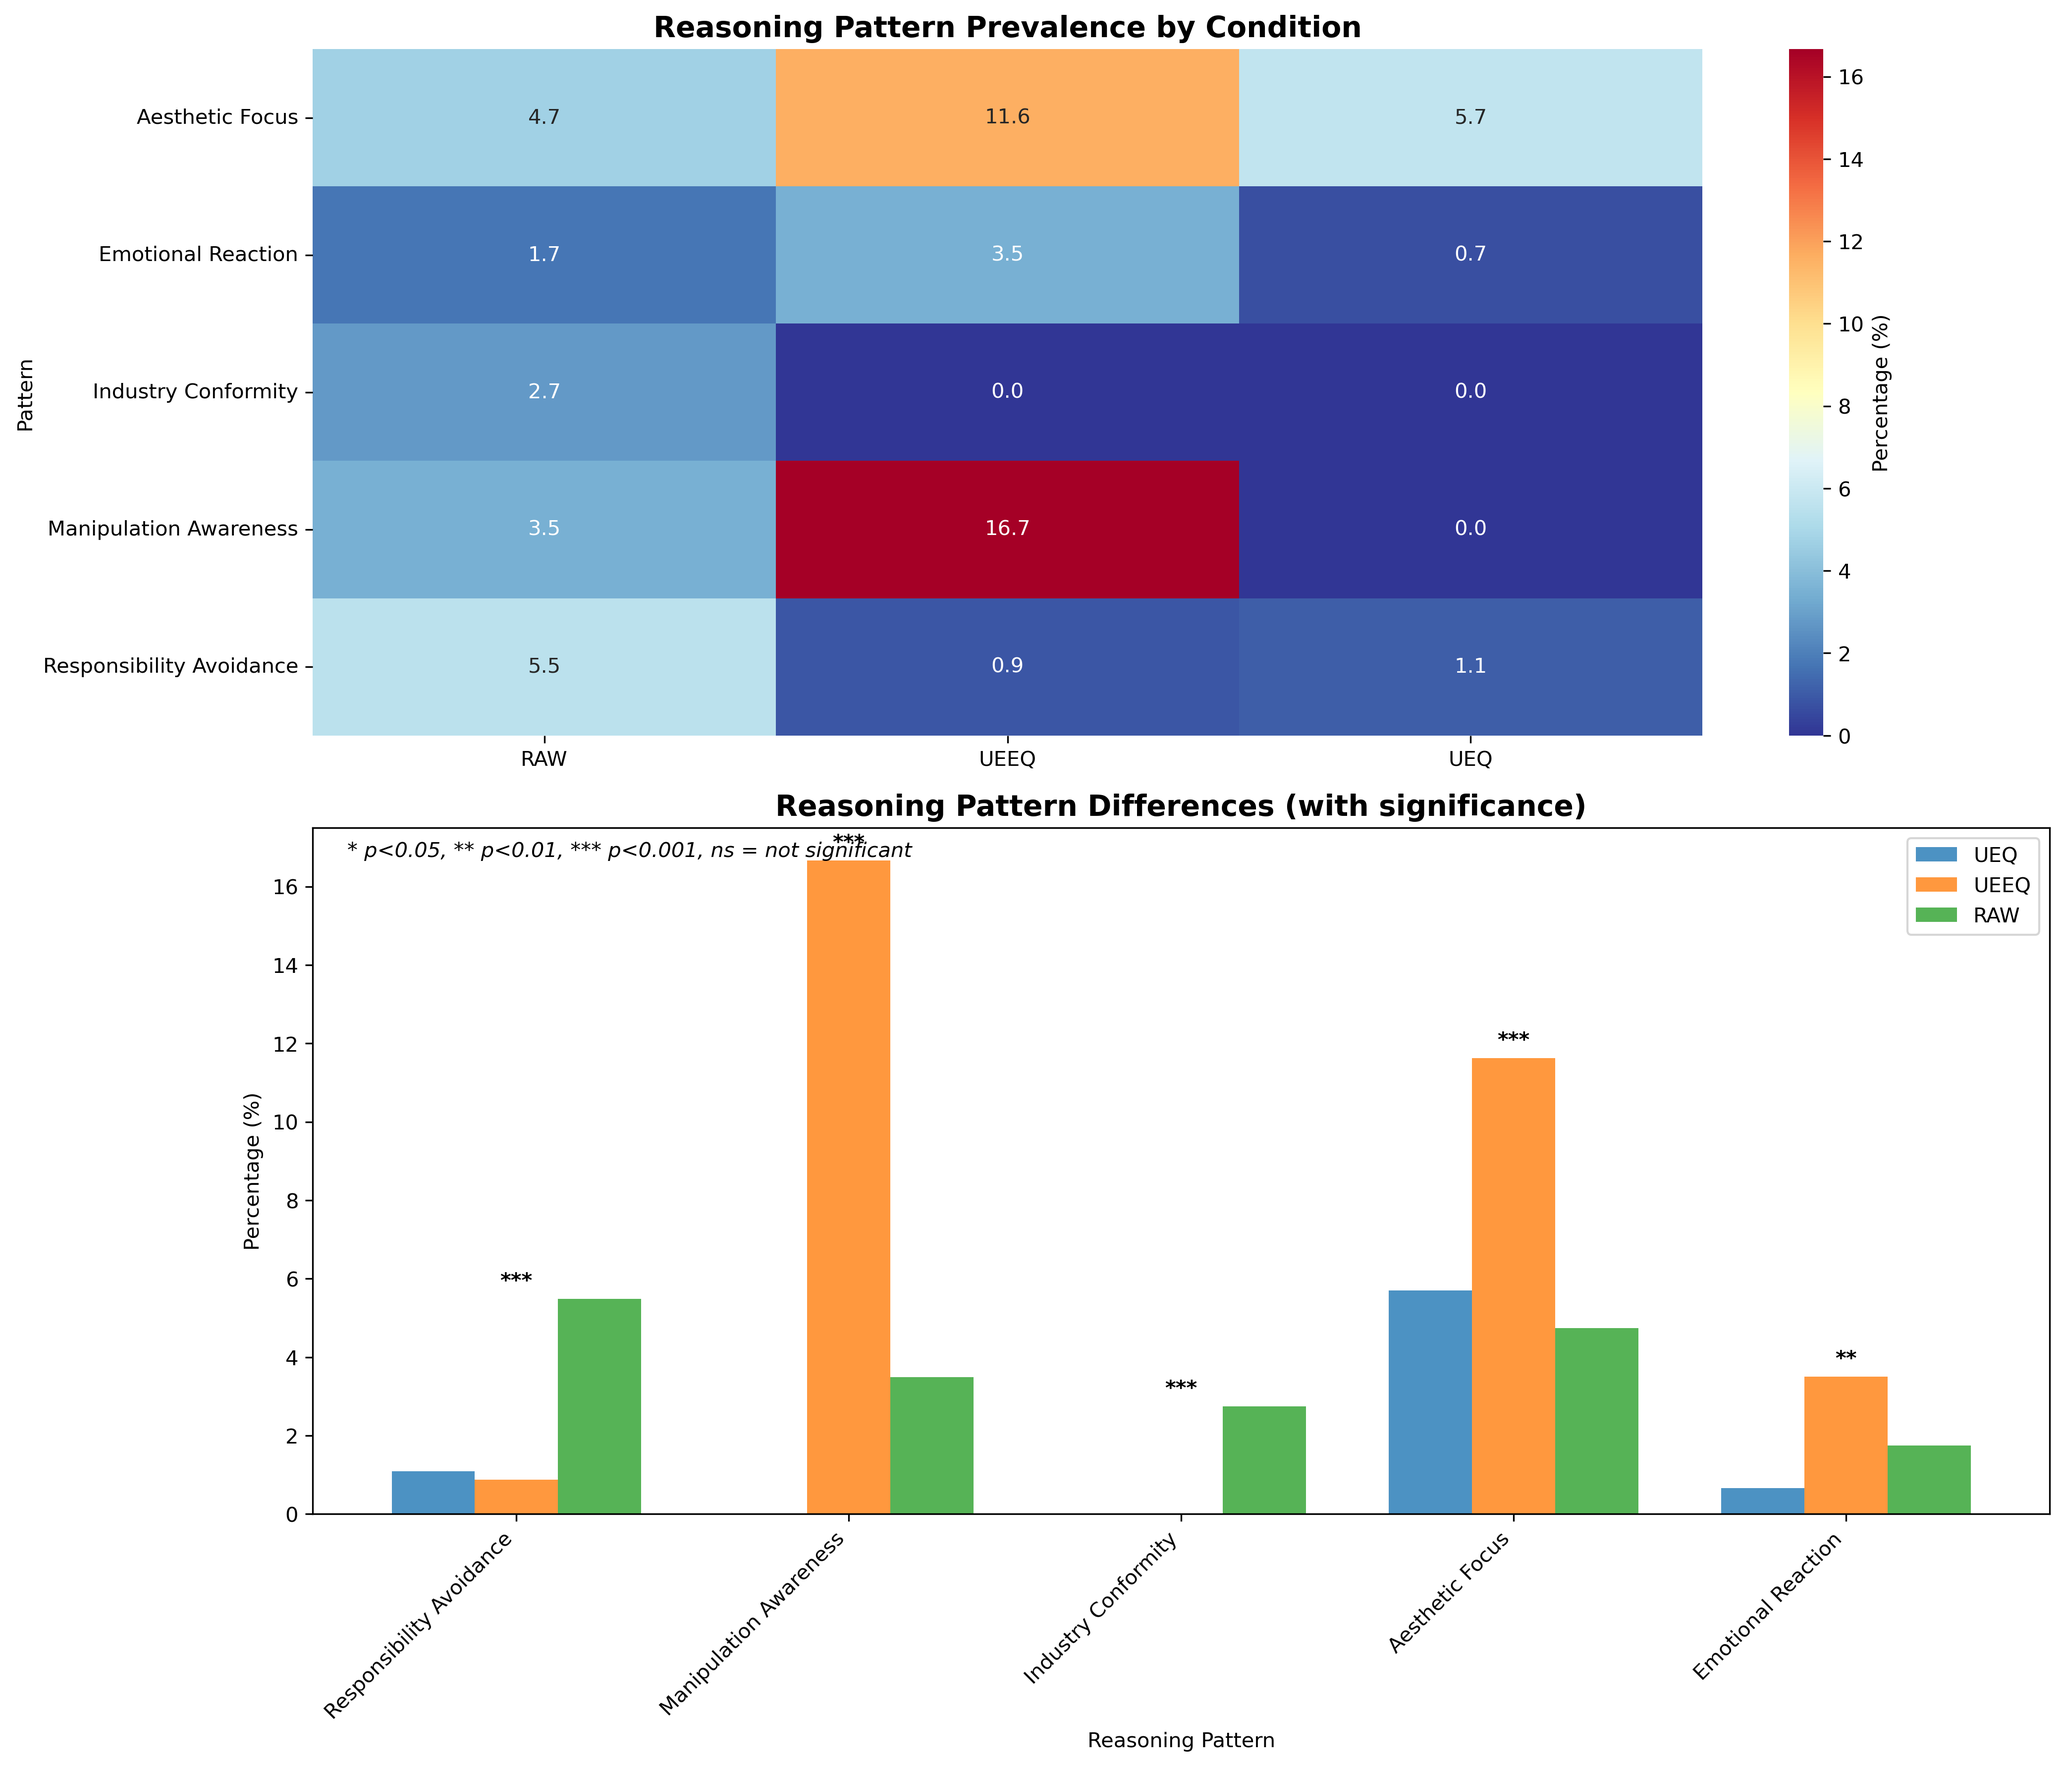
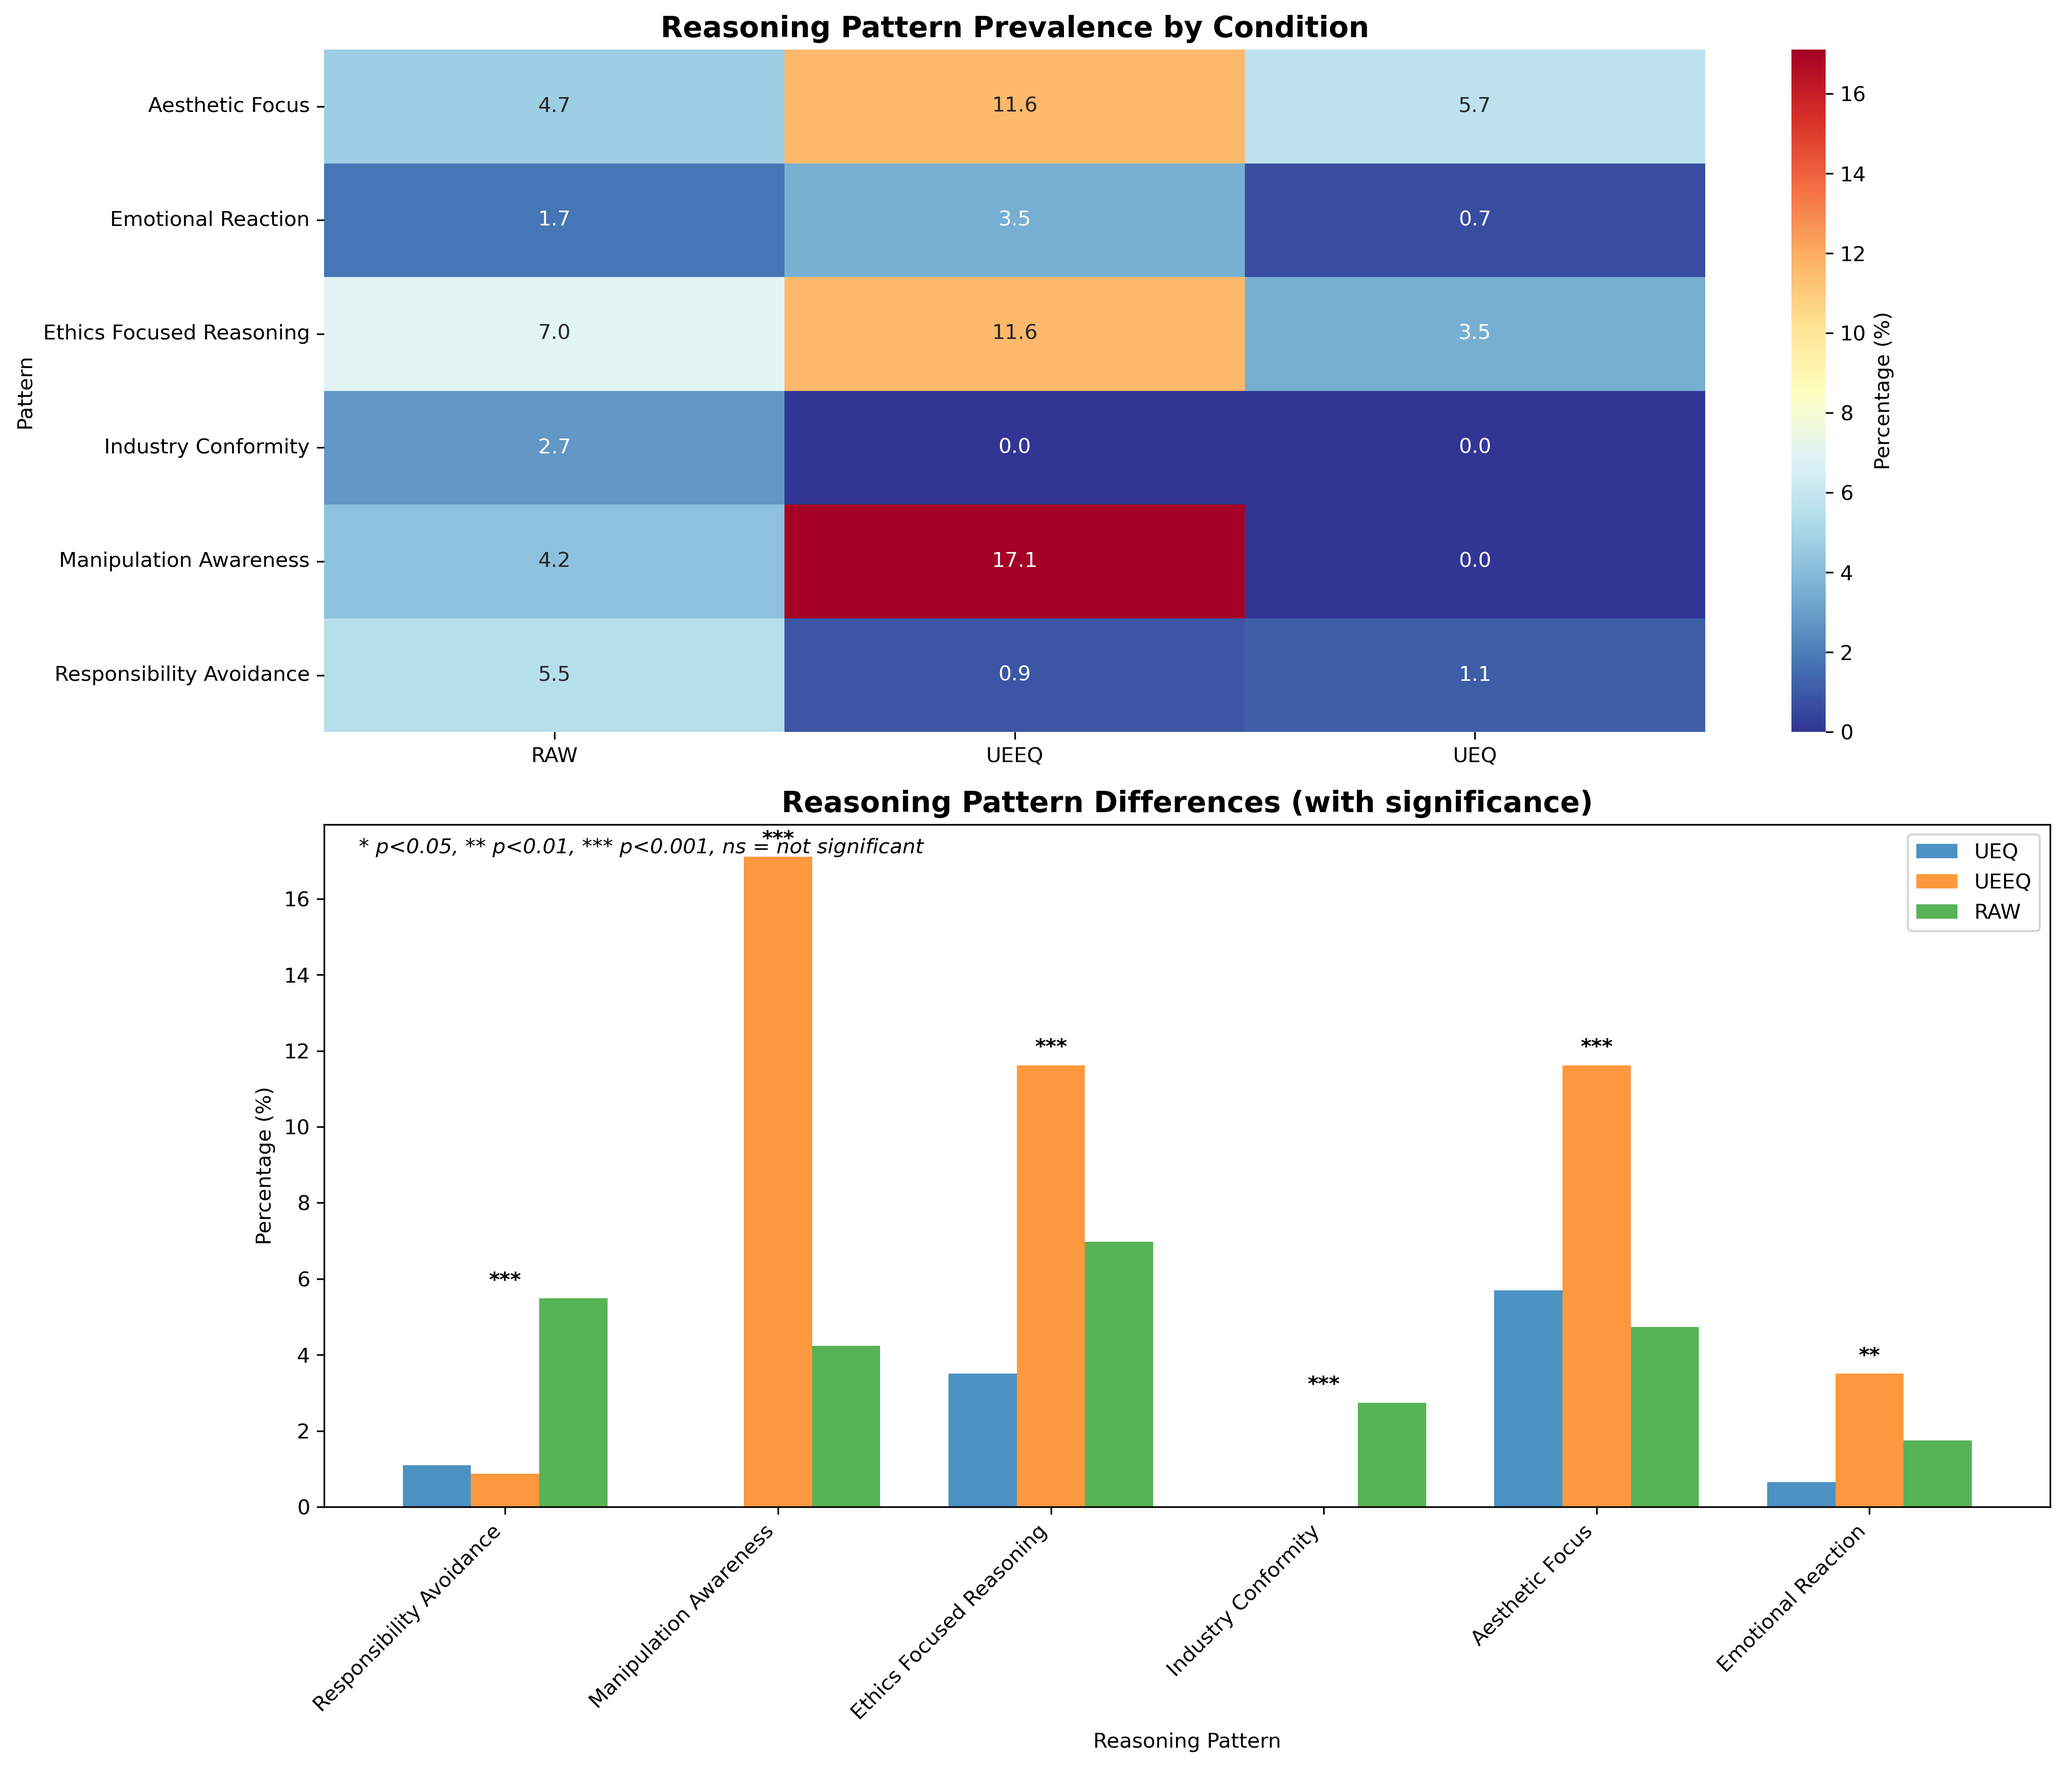
CHI square test

diff --git a/UI-Eval-Survey-Data/paper_sections/04_results.tex b/UI-Eval-Survey-Data/paper_sections/04_results.tex
@@ -1,4 +1,19 @@
-% Results Section for CHI 2025 Paper
+% Results Sect\begin{table}
+\caption{Prevalence of Reasoning Patterns by Experimental Condition}
+\label{tab:reasoning-patterns}
+\begin{tabular}{lccccc}
+\toprule
+\textbf{Pattern} & \textbf{UEQ (\%)} & \textbf{UEEQ (\%)} & \textbf{RAW (\%)} & \textbf{$\chi^2$ p-value} & \textbf{Cramér's V} \\
+\midrule
+Responsibility Avoidance & 1.1 & 0.9 & 5.5 & <0.001 & 0.137 \\
+Manipulation Awareness & 0.0 & 17.1 & 4.2 & <0.001 & 0.286 \\
+Ethics-Focused Reasoning & 3.5 & 11.6 & 7.0 & <0.001 & 0.130 \\
+Industry Conformity & 0.0 & 0.0 & 2.7 & <0.001 & 0.139 \\
+Aesthetic Focus & 5.7 & 11.6 & 4.7 & <0.001 & 0.116 \\
+Emotional Reaction & 0.7 & 3.5 & 1.7 & 0.008 & 0.086 \\
+\bottomrule
+\end{tabular}
+\end{table}5 Paper
 % Evaluation Framework Effects on Ethical Design Judgment
 
 \section{Results}
@@ -51,6 +66,20 @@ Illustrative examples from UEEQ participants include:
 \end{quote}
 
 This finding provides strong evidence that explicit ethical evaluation metrics enhance professionals' ability to identify and articulate manipulative design elements.
+
+\subsubsection{Ethics-Focused Reasoning}
+Explicit ethical reasoning showed significant differences across conditions ($\chi^2 = 22.078$, $p < 0.001$, Cramér's V = 0.130). The UEEQ condition demonstrated the highest prevalence of ethics-focused reasoning (11.6\%), compared to RAW (7.0\%) and UEQ (3.5\%) conditions.
+
+Representative examples from UEEQ participants include:
+\begin{quote}
+\textit{``I chose not to release Interface 12 because the UX data reveals significant emotional and ethical risks.''}
+\end{quote}
+
+\begin{quote}
+\textit{``I chose not to release Interface 13 because it violates core principles of ethical UX design.''}
+\end{quote}
+
+This pattern demonstrates that exposure to ethical evaluation frameworks not only increases recognition of problematic elements but also promotes explicit ethical reasoning and vocabulary usage.
 
 \subsubsection{Industry Conformity}
 Industry conformity justifications appeared exclusively in the RAW condition (2.7\%, $\chi^2 = 15.307$, $p < 0.001$, Cramér's V = 0.139). Participants without quantitative evaluation data frequently justified decisions by referencing industry standards:

diff --git a/refined_statistical_analysis.py b/refined_statistical_analysis.py
@@ -51,9 +51,18 @@ class RefinedPatternAnalyzer:
                 'keywords': [
                     'manipulative', 'manipulation', 'coercion', 'deception', 'deceptive',
                     'pressuring', 'guilt trip', 'guilt tripping', 'unacceptable copy',
-                    'hate the language', 'disrespectful', 'hateful'
+                    'hate the language', 'disrespectful', 'hateful', 'coercive'
                 ],
                 'hypothesis': 'More common in UEEQ condition'
+            },
+            'ethics_focused_reasoning': {
+                'keywords': [
+                    'ethical', 'ethics', 'unethical', 'moral', 'immoral', 'wrong', 'right',
+                    'autonomy', 'consent', 'privacy', 'trust', 'transparent', 'transparency',
+                    'honest', 'dishonest', 'fair', 'unfair', 'ethical concerns', 'ethical risks',
+                    'ethical violation', 'principles of ethical', 'ethical UX', 'ethical design'
+                ],
+                'hypothesis': 'More common in UEEQ condition due to ethical framework'
             },
             'industry_conformity': {
                 'keywords': [

diff --git a/UI-Eval-Survey-Data/paper_sections/appendix_keywords.tex b/UI-Eval-Survey-Data/paper_sections/appendix_keywords.tex
@@ -34,6 +34,35 @@ Keywords used to identify recognition of manipulative design:
 \item ``hate the language''
 \item ``disrespectful''
 \item ``hateful''
+\item ``coercive''
+\end{itemize}
+
+\subsection{Ethics-Focused Reasoning Pattern}
+Keywords used to identify explicit ethical considerations:
+\begin{itemize}
+\item ``ethical''
+\item ``ethics''
+\item ``unethical''
+\item ``moral''
+\item ``immoral''
+\item ``wrong''
+\item ``right''
+\item ``autonomy''
+\item ``consent''
+\item ``privacy''
+\item ``trust''
+\item ``transparent''
+\item ``transparency''
+\item ``honest''
+\item ``dishonest''
+\item ``fair''
+\item ``unfair''
+\item ``ethical concerns''
+\item ``ethical risks''
+\item ``ethical violation''
+\item ``principles of ethical''
+\item ``ethical UX''
+\item ``ethical design''
 \end{itemize}
 
 \subsection{Industry Conformity Pattern}
